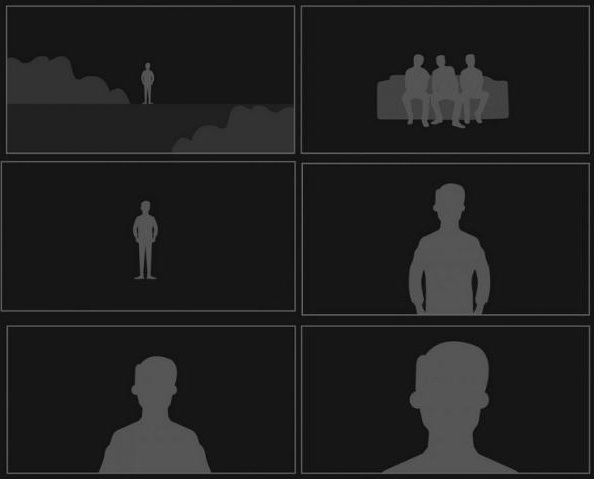
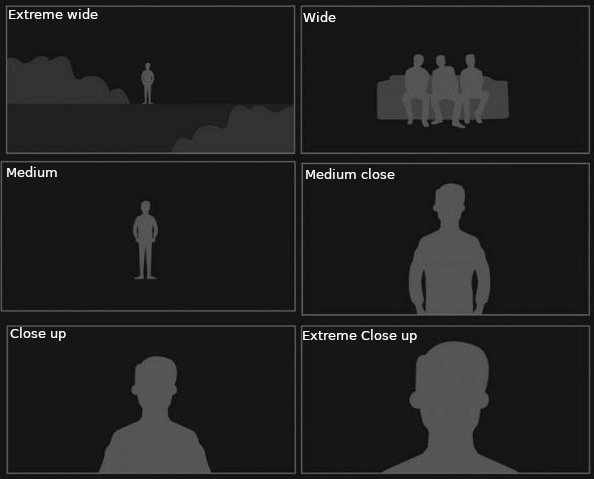
Updated filename structure

diff --git a/app/api/save-frame/route.ts b/app/api/save-frame/route.ts
@@ -24,9 +24,13 @@ export async function POST(request: NextRequest) {
     const folderPath = path.join(baseDir, camera, event, framing);
     await mkdir(folderPath, { recursive: true });
     
-    // Create filename with timestamp
-    const timestamp = new Date().toISOString().replace(/:/g, "-");
-    const fileName = `frame_${timestamp}.png`;
+    // Create filename with path and cleaner timestamp
+    const timestamp = new Date().toISOString()
+      .replace(/:/g, "-")
+      .replace("T", "_")
+      .replace("Z", "");
+    
+    const fileName = `${camera}_${event}_${framing}_${timestamp}.jpg`;
     const filePath = path.join(folderPath, fileName);
     
     // Convert file to buffer and save
